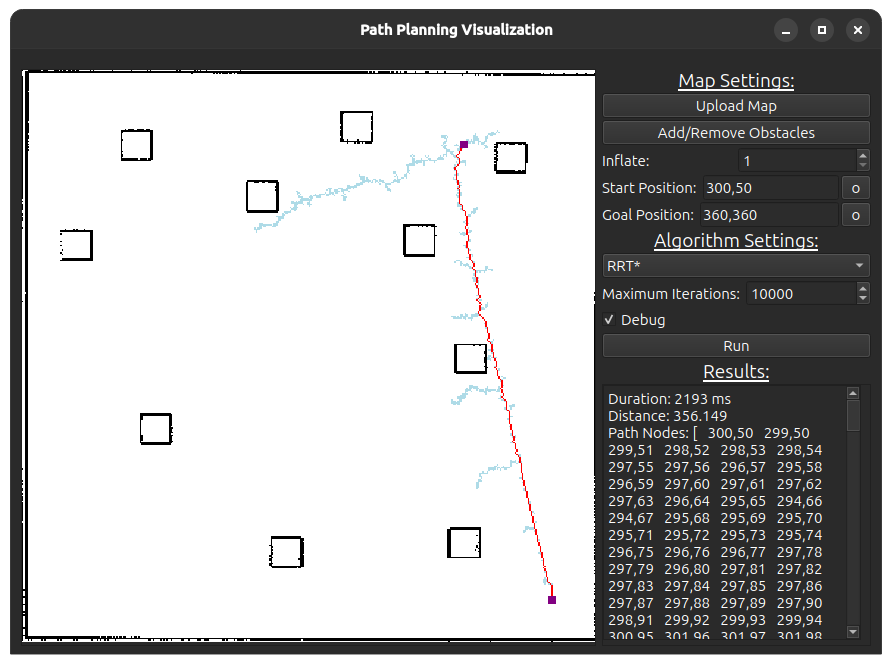
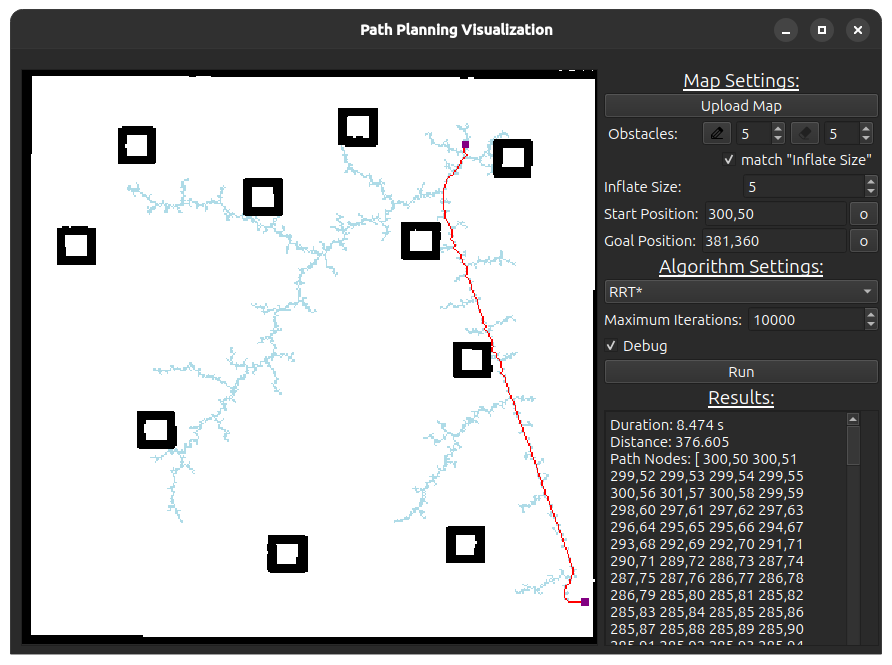
Updated gui in documentation and  updated todos

diff --git a/README.md b/README.md
@@ -19,9 +19,9 @@ A testing ground for path planning strategies for ROS.
     - [X] Set start or goal position using mouse click (enabled by button)
     - [X] Update map with new obstacles or delete them (with inflation) 
     - [ ] [Optional] Animate traversal of map and final path
+    - [ ] [Optional] Change behavior of Add/remove obstacles to be more like a pen or eraser
 - [ ] Optimizations/Bug Fixes    
     - [ ] Implement multi-threading for running algorithms (potentially for map display as well)
-    - [ ] Change behavior of Add/remove obstacles to be more like a pen or eraser
     - [ ] Reduce code redundancies
     - [ ] Add more extensive error handling for GUI
 
